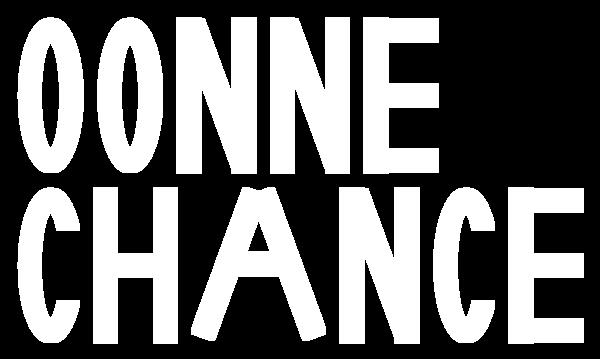
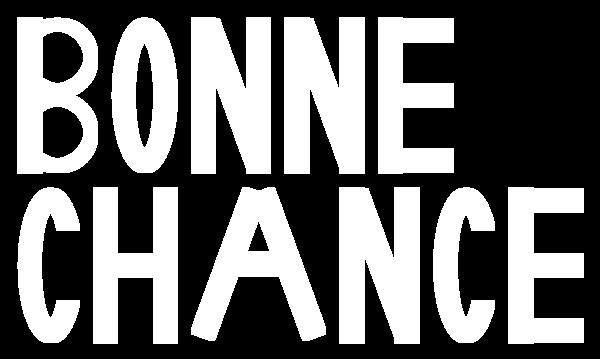
finished lab

diff --git a/src/main/java/Letter/LetterFactory.java b/src/main/java/Letter/LetterFactory.java
@@ -41,12 +41,24 @@ public final class LetterFactory {
      * @return BaseShape containing the letter B
      */
     public static BaseShape create_B() {
-        BaseShape O = new Ellipse(maxWidth,maxHeight);
-        BaseShape removeMiddle = new Ellipse(maxWidth - stripeThickness * 2, maxHeight - stripeThickness * 2);
-        O.remove(removeMiddle);
-        O.translate(O.getCoords(), new Point2d(halfMaxWidth, 0.0));
+        BaseShape B = new BaseShape();
+        BaseShape topCircle = new Circle(halfMaxHeight);
+        BaseShape bottomCircle = new Circle(halfMaxHeight);
+        BaseShape middleRemove2 = new Circle(halfMaxHeight/2 + 20);
+        BaseShape middleRemove = new Circle(halfMaxHeight/2 + 20);
+        BaseShape skeleton = new Rectangle(stripeThickness, maxHeight);
 
-        return O;
+        bottomCircle.translate(bottomCircle.getCoords(), new Point2d(0.0, halfMaxHeight));
+        middleRemove2.translate(middleRemove2.getCoords(), new Point2d(0.0, halfMaxHeight));
+        skeleton.translate(skeleton.getCoords(), new Point2d(-halfMaxWidth + 2, halfMaxHeight/2));
+
+        B.add(topCircle);
+        B.add(bottomCircle);
+        B.remove(middleRemove);
+        B.remove(middleRemove2);
+        B.add(skeleton);
+
+        return B;
     }
 
     /** TODO

diff --git a/src/main/java/Shape/Circle.java b/src/main/java/Shape/Circle.java
@@ -6,6 +6,6 @@ public class Circle extends Ellipse {
      * @param radius Radius of the Circle
      */
     public Circle(Double radius) {
-        super(radius*2, radius*2);
+        super(radius, radius);
     }
 }
